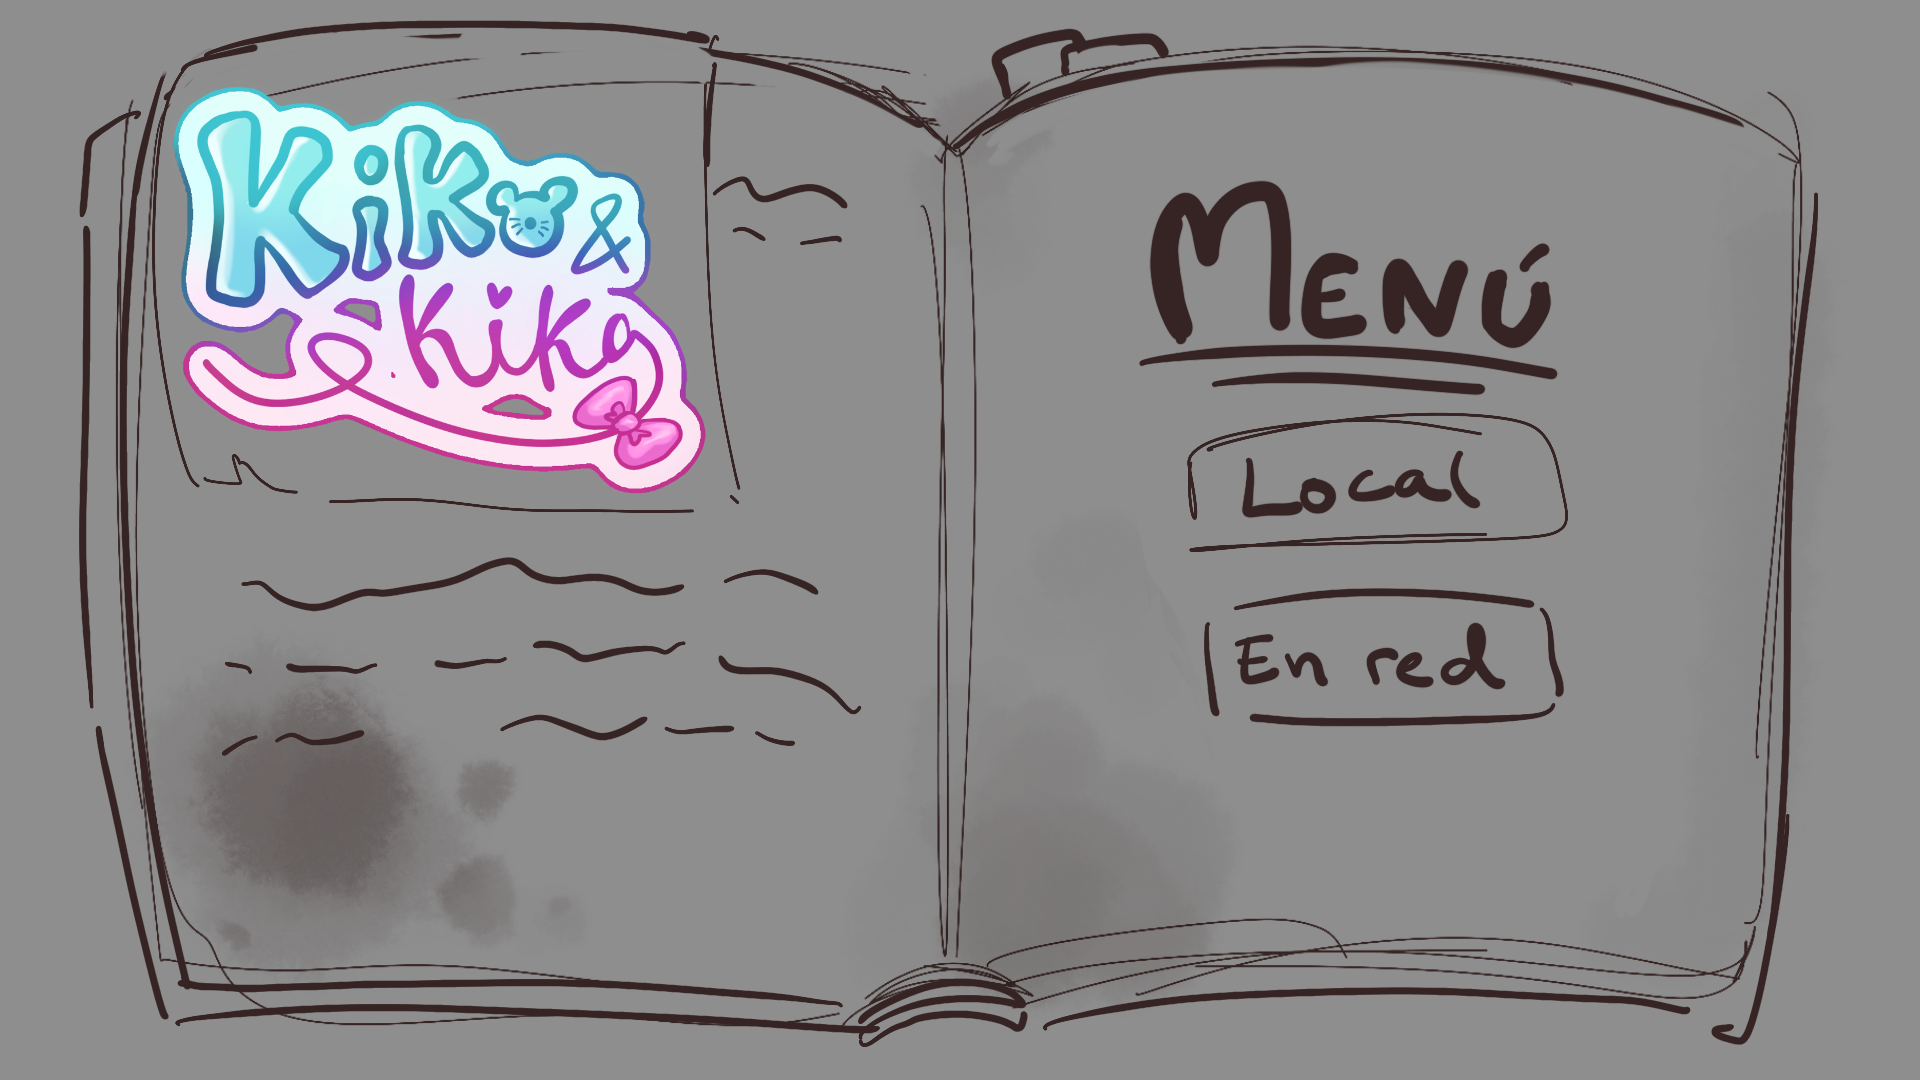
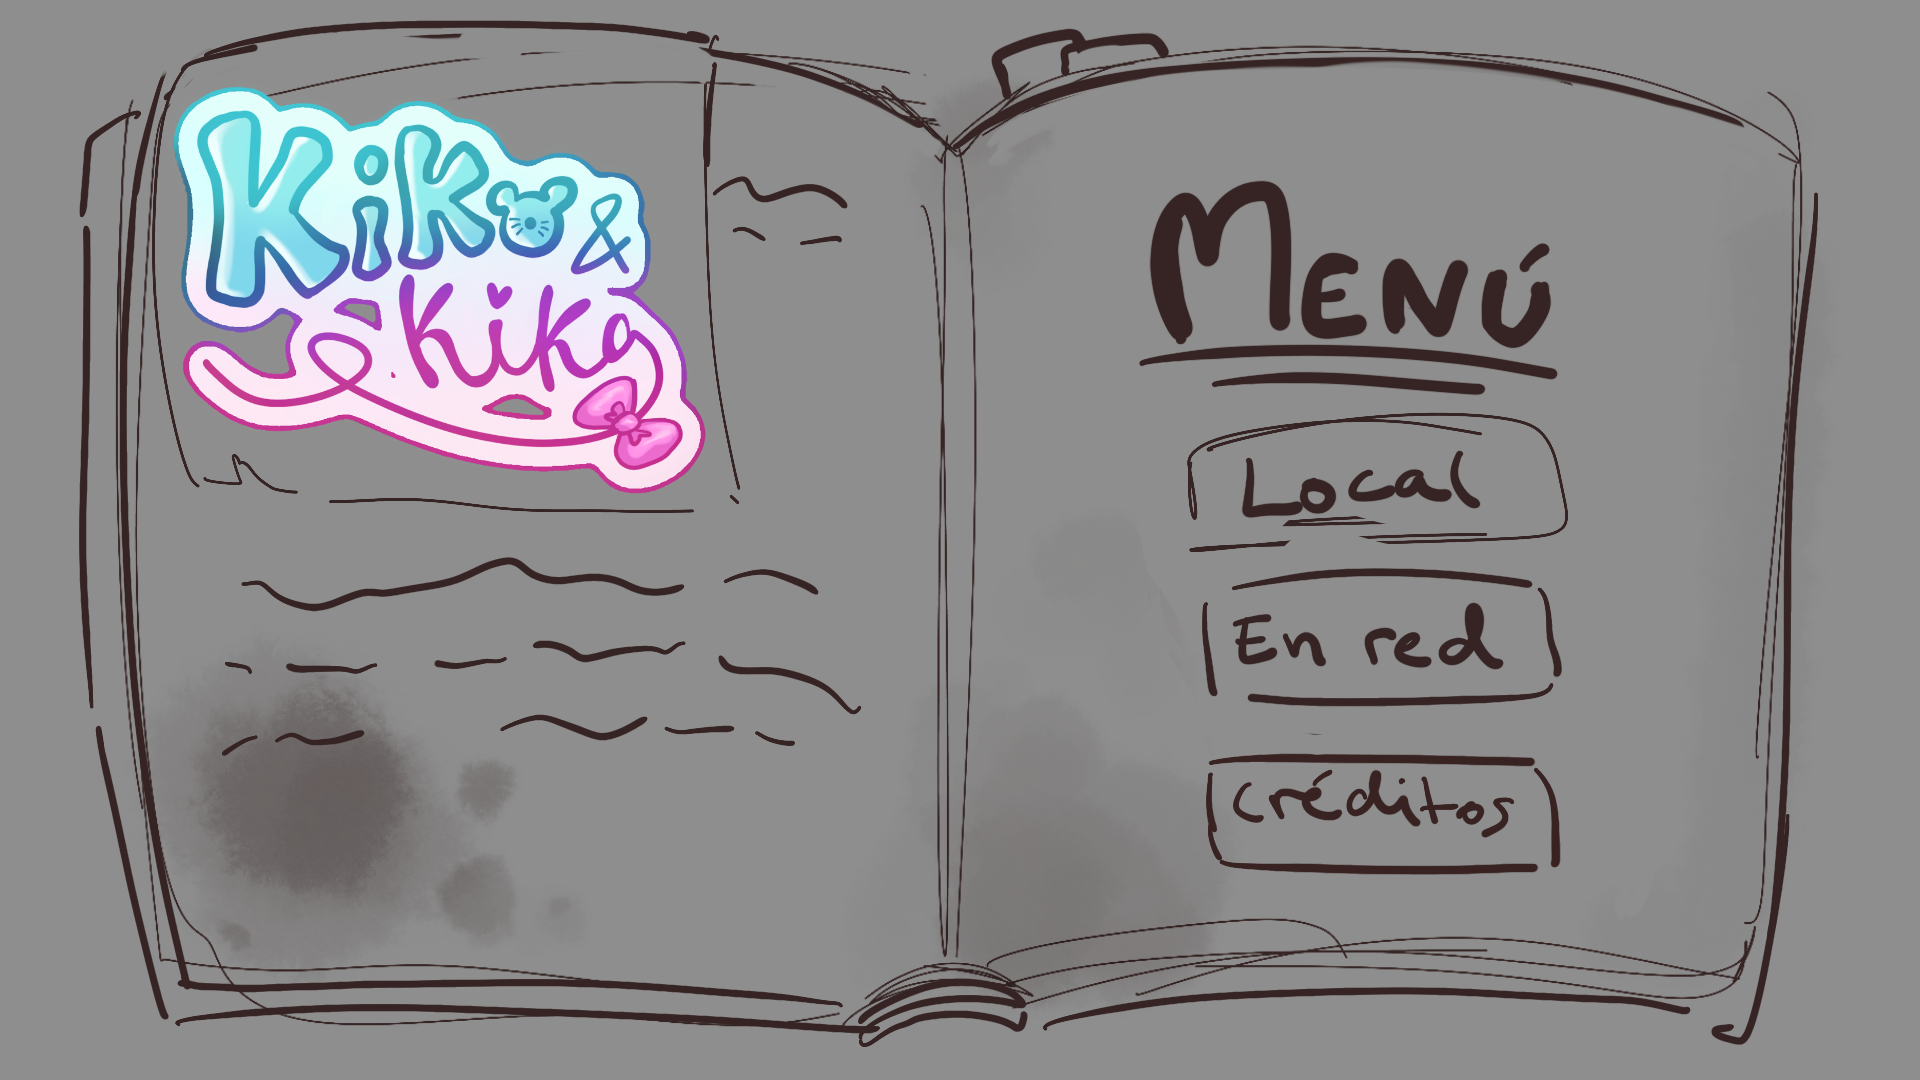
Bocetos Nivel 1, cambio menú principal y cambios en el GDD

Changed region(s): [[0.625, 0.4583, 0.8125, 0.825]]

diff --git a/GDD.md b/GDD.md
@@ -5,6 +5,7 @@
 **Grupo C** ·  Yi Chen, Sofía García de Vinuesa Castaño, Luisa Baeza Rodríguez, Mireya Vargas Sánchez 
 
 ![Logo](img/logo_chimis.png)
+*Figura 1. Logo de empresa*
 
 ## Índice
 
@@ -17,6 +18,7 @@
 ## 1. Introducción
 
 ![Título juego](img/Titulo.png)
+*Figura 2. Logo del juego*
 
 ### 1.1. Concepto principal
 
@@ -78,7 +80,7 @@ E: Activar hablilidad de PowerUp.
 
 ### 3.3. ¿Cómo completar el nivel?
 
-Ambos jugadores deberán introducir en la olla situada al final del nivel los ingredientes del escenario sobrepasando en su camino diversos puzzles y obstáculos a través de sus habilidades.
+Ambos jugadores deberán recoger todoslos ingredientes del escenario sobrepasando en su camino diversos puzzles y obstáculos a través de sus habilidades.
 
 ### 3.4. PowerUps
 
@@ -105,6 +107,7 @@ Kiko tiene una composición corporal robusta con un pelaje claro y grueso. Respe
 Kika es una ratona pequeña con unas orejas grandes. Ella es muy energética y valiente. Gracias a su pequeña altura y ligereza puede entrar en sitios pequeños, correr más rápido y saltar más alto.
 
 ![Kiko y Kika](img/diseño_kiko_kika.jpg)
+*Figura 3. Diseño de personajes de Kiko y Kika*
 
 #### ABUELITA (Personaje secundario)
 
@@ -118,19 +121,21 @@ Esperanza es una persona anciana con el pelo corto rizado y gris. Ella es muy ge
 
 ![Boceto del menú principal](img/boceto_menu_principal.png)
 
-*Figura 6. Menú principal: Inicio del juego, cuenta con el título y 3 botones: (cooperativo local, cooperativo online y créditos)*
+*Figura 4. Menú principal: Inicio del juego, cuenta con el título y 3 botones: (cooperativo local, cooperativo online y créditos)*
 
 **Pantalla de juego (HUD)**
 
 ![Boceto de la pantalla de juego](img/boceto_pantalla_juego.png)
+![Boceto de la pantalla de juego](img/boceto_pantalla_juego_ruta_trazada.png)
 
-*Figura 7. Pantalla de juego: Se visualiza el nivel/los niveles, hay dos cámaras, una para cada jugador*
+*Figura 5. Pantalla de juego: Se visualiza el nivel/los niveles donde habrá una cámara que se alejará y acercará en función de la posición de los jugadores*
+*Figura 6. Pantalla de juego: Se visualiza el nivel/los niveles donde se ve la ruta que deberán llevar los jugadores para superar el nivel*
 
 **Pantalla de créditos**
 
 ![Boceto de la pantalla de créditos](img/boceto_pantalla_juego.png)
 
-*Figura 8. Pantalla créditos: Pantalla donde se muestra el nombre de todos las colaboradoras con sus funciones y todas las referencias usadas.*
+*Figura 7. Pantalla créditos: Pantalla donde se muestra el nombre de todos las colaboradoras con sus funciones y todas las referencias usadas.*
 
 **Pantalla final**
 
